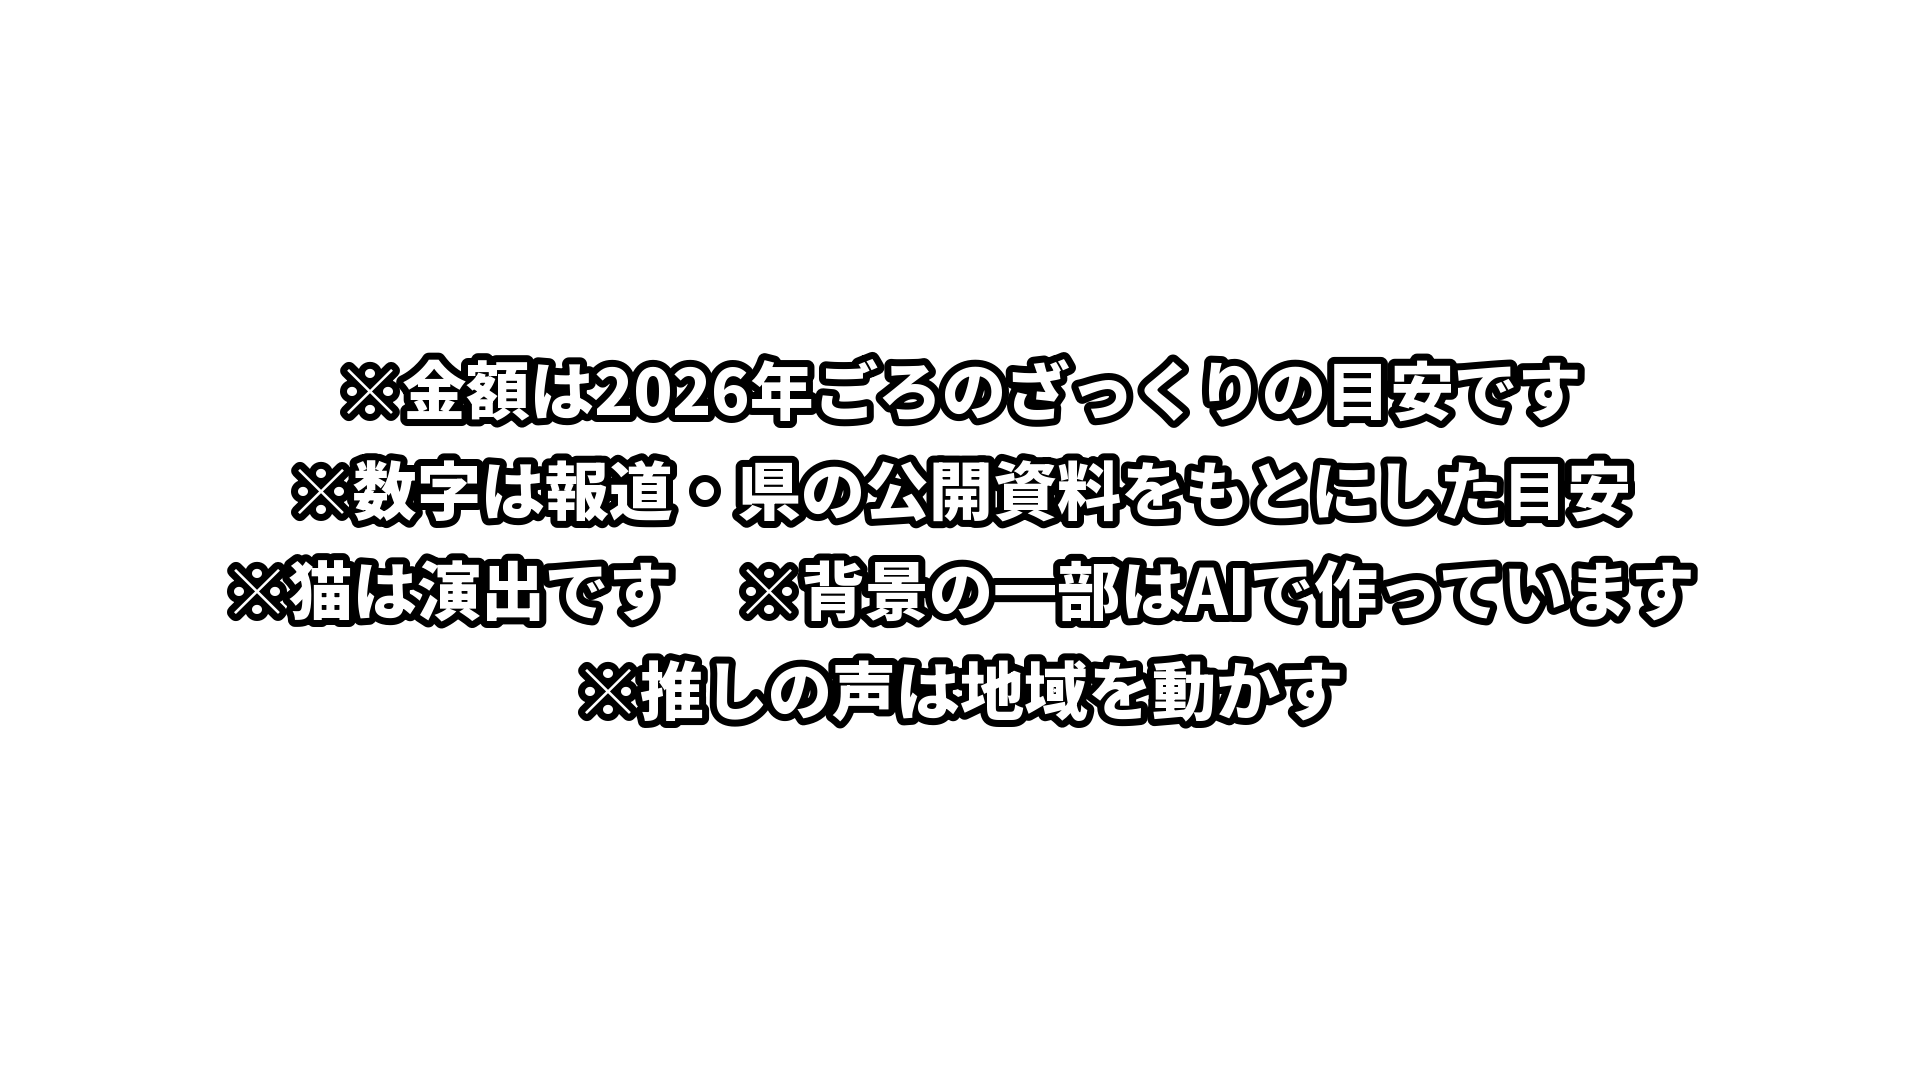
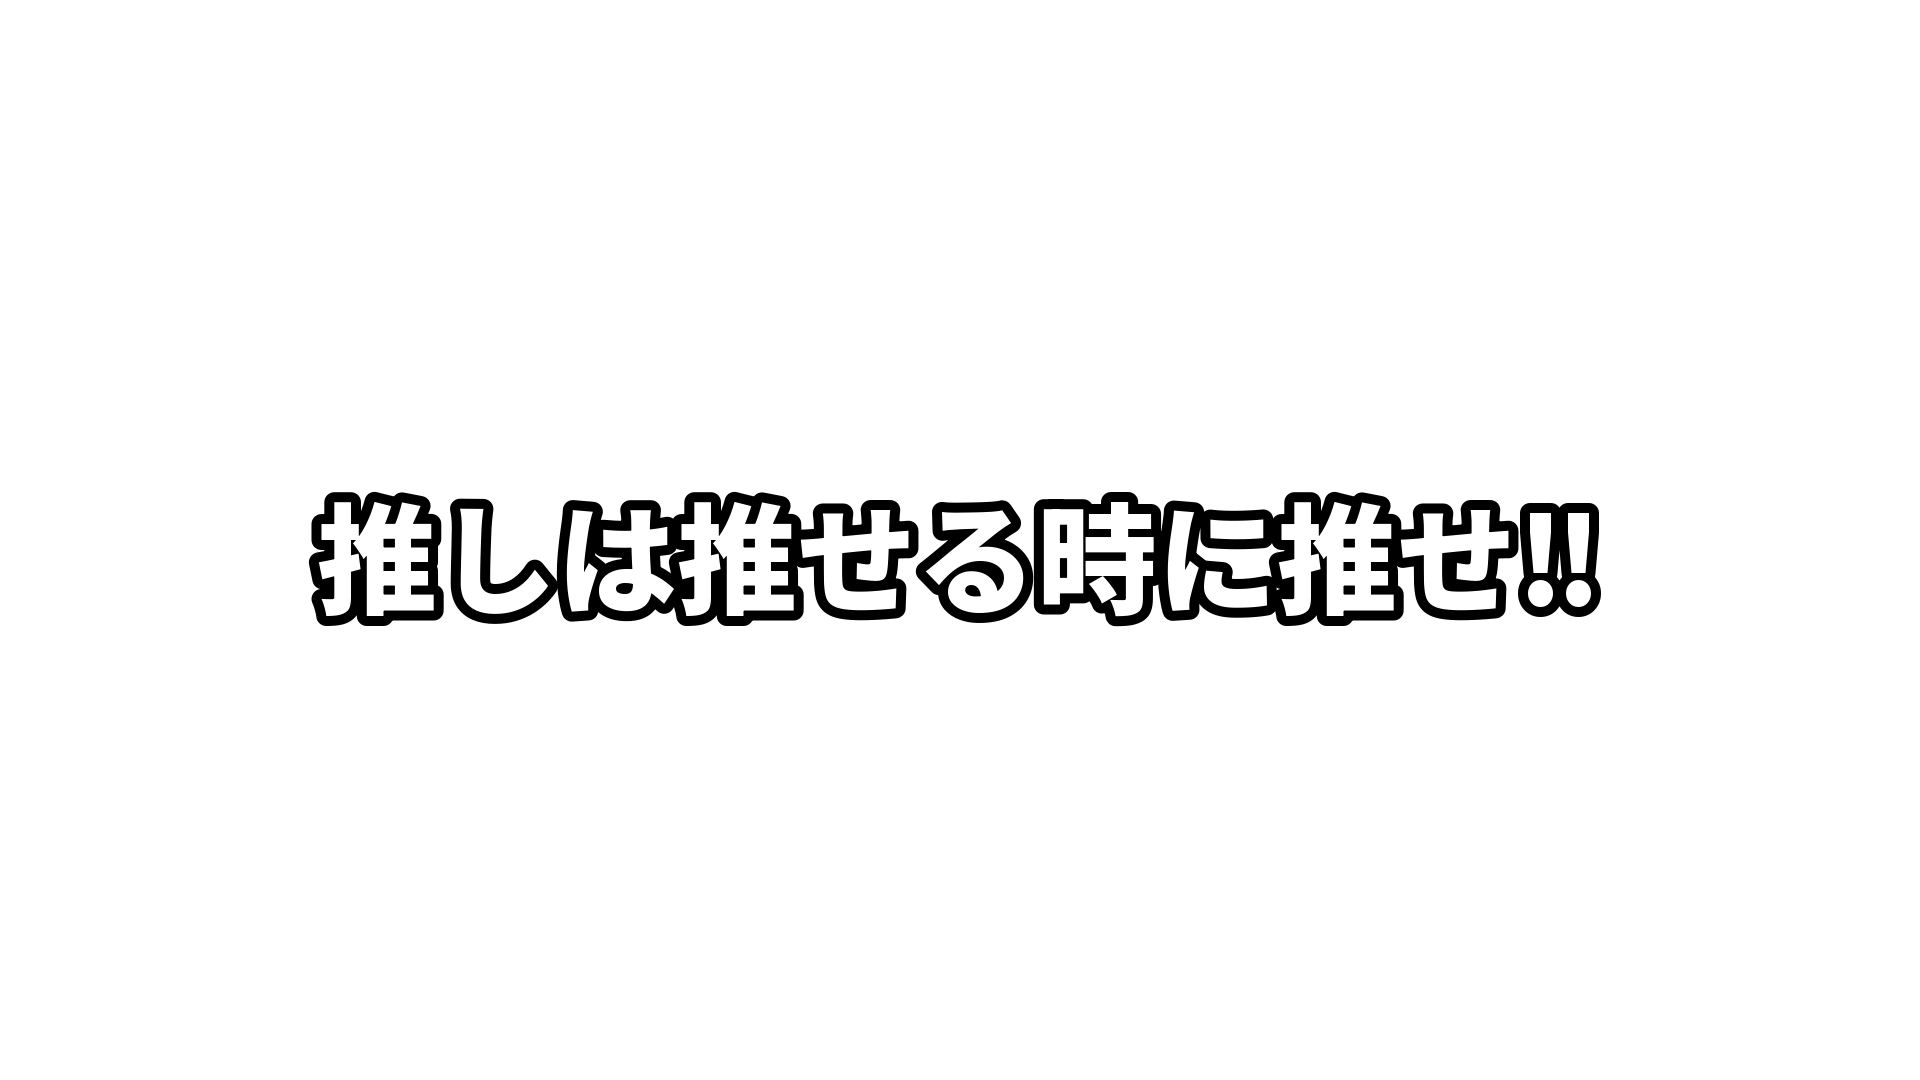
Video 39: opening screen shows only today's line
Claude-Session: https://claude.ai/code/session_011g9CsrfFD5YswfNSvNDW39

Changed region(s): [[0.0938, 0.3056, 0.9062, 0.6722]]

diff --git a/catmeme/make_parts_39.py b/catmeme/make_parts_39.py
@@ -9,7 +9,7 @@ import parts as P
 
 HERE = os.path.dirname(os.path.abspath(__file__))
 V = dict(
-    today="※推しの声は地域を動かす",
+    today="推しは推せる時に推せ‼",
     notice2="※数字は報道・県の公開資料をもとにした目安",
     title=(["VTuberの音声ガイド", "154万円で何が起きた？"], "県の資料でわかった費用と\n地域の経済効果をくらべてみた"),
     premise=("今回の話", ["静岡県立美術館の音声ガイド", "担当はホロライブの儒烏風亭らでんさん",
@@ -19,11 +19,21 @@ V = dict(
     ending=["推しの力は", "地域も動かす"])
 
 
+def today_only(text):
+    from PIL import Image, ImageDraw
+    img = Image.new("RGBA", (P.W, P.H), (0, 0, 0, 0))
+    d = ImageDraw.Draw(img)
+    f = P.font("black", 120)
+    w = d.textlength(text, font=f)
+    d.text(((P.W - w) / 2, P.H / 2 - 75), text, font=f, fill=(255, 255, 255), stroke_width=10, stroke_fill=(0, 0, 0))
+    return img
+
+
 def main():
     out = os.path.join(HERE, "parts", "39_raden")
     os.makedirs(out, exist_ok=True)
     items = {
-        "e00_notice": M.notice(V["today"], V["notice2"]),
+        "e00_notice": today_only(V["today"]),   # 11/2 ユーザー指定：冒頭は今日の一言だけ
         "e01_title": P.message(V["title"][0], sub=V["title"][1], size=88),
         "e02_premise": P.bullets(V["premise"][0], V["premise"][1], size=50),
         "e07_points": P.bullets(V["points"][0], V["points"][1], size=50),
